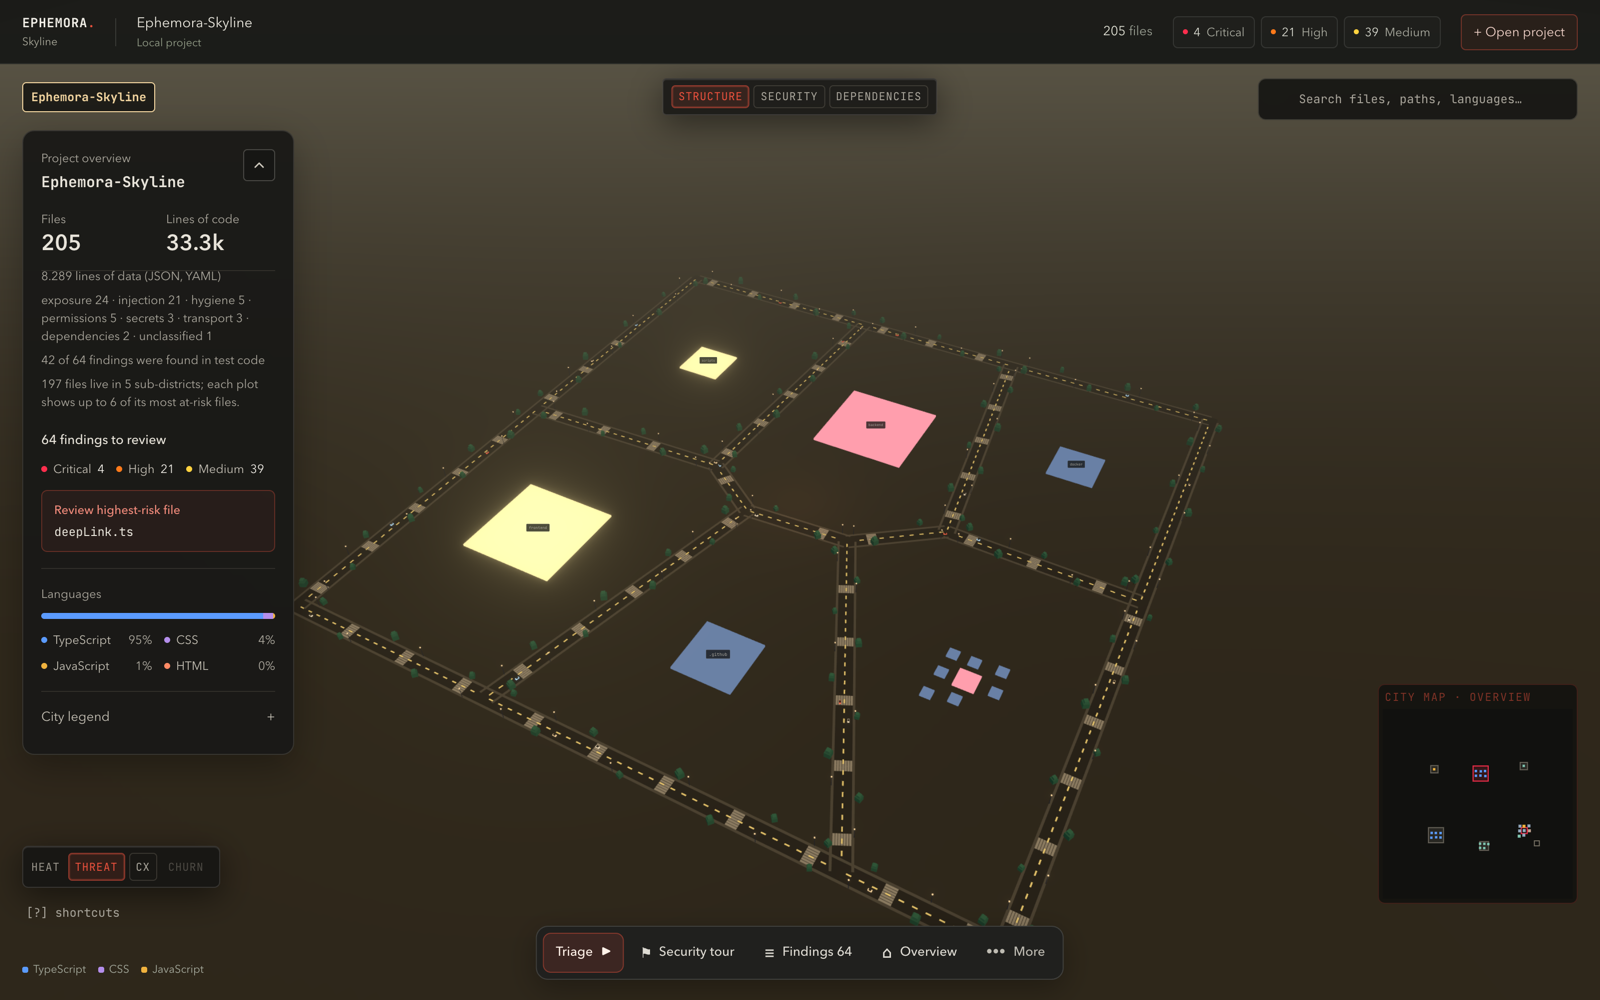
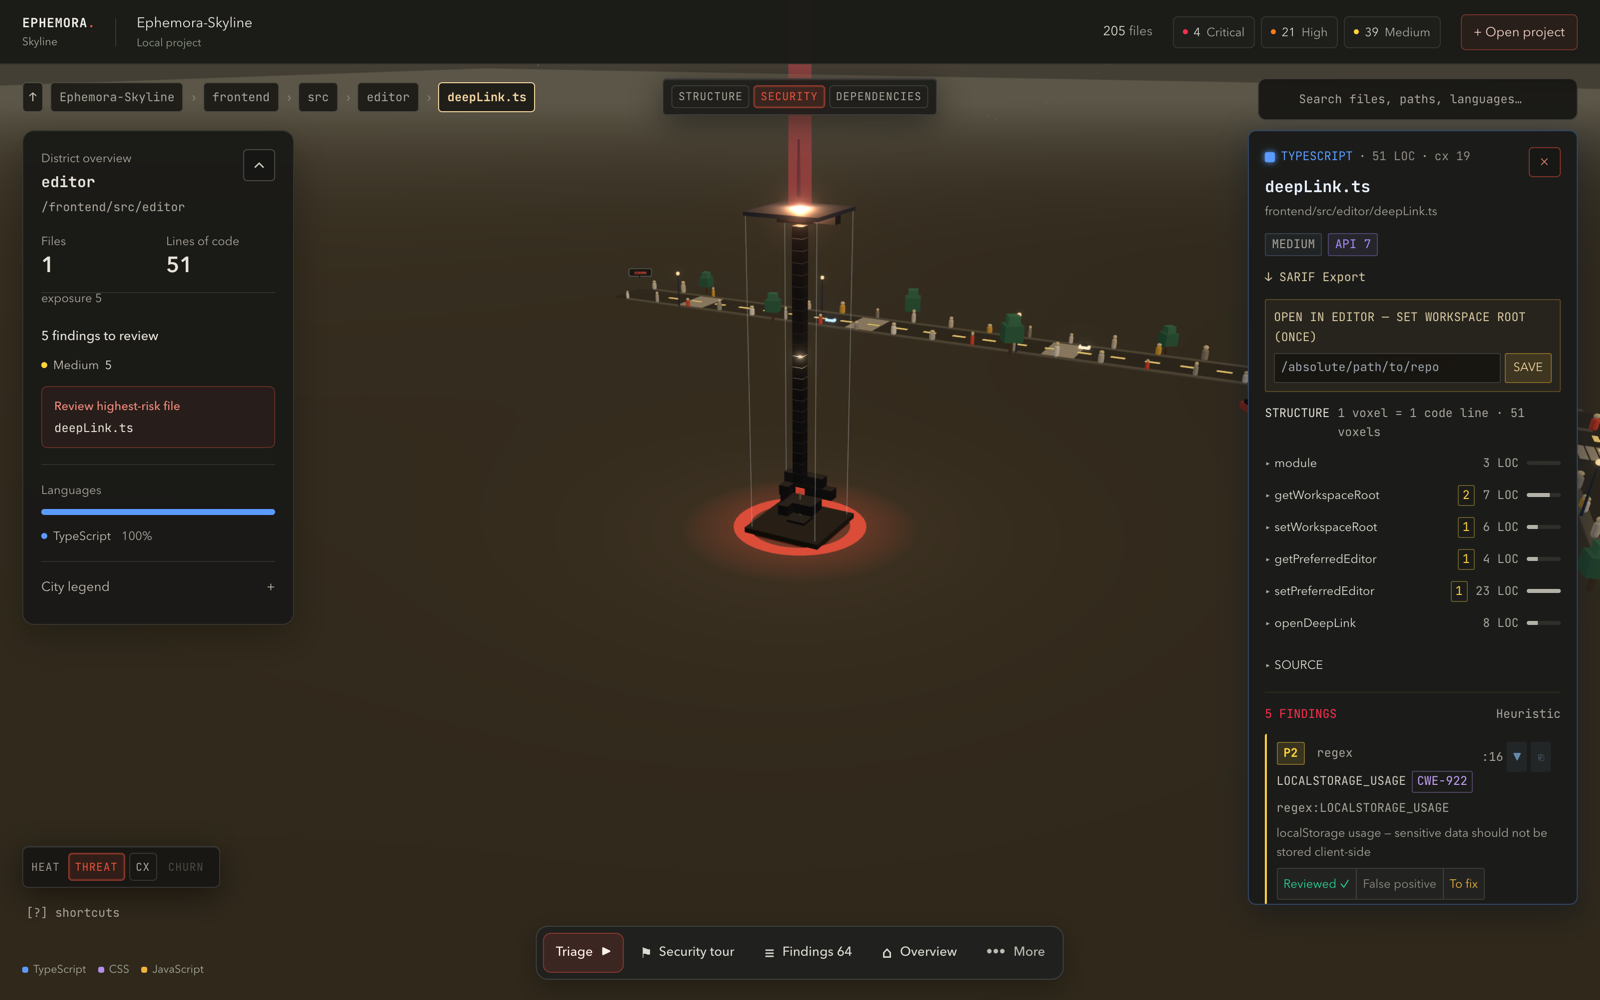
docs(readme): the gallery shows what its captions claim
ui-finding.png was the complexity heat channel with no finding on it, and
ui-security.png was the overview shot again: security mode dims non-alarm
buildings to 0.45, which measured 1.3 % of pixels and no reader can see. Both
are replaced with district-level shots of the real product, and the captions
describe what those pictures actually show. Test counts follow the new suite.

diff --git a/README.md b/README.md
@@ -53,7 +53,7 @@ Open **http://localhost:3010** and click **Choose project folder** — or **Expl
 ```bash
 npm run lint           # ESLint, zero warnings
 npm run type-check     # tsc --noEmit, both packages
-npm run test           # Vitest — 671 tests in 77 files (355 frontend, 316 backend)
+npm run test           # Vitest — 675 tests in 78 files (359 frontend, 316 backend)
 npm run build          # production build, both packages
 node scripts/audit-gate.mjs   # dependency audit, see below
 ```
@@ -117,15 +117,15 @@ A pack is a directory with a `pack.json` manifest and rule YAML beside it. The m
 
 ## The look
 
-| Entry                                                                                                          | Security mode                                   |
-| -------------------------------------------------------------------------------------------------------------- | ----------------------------------------------- |
-| ![Entry screen: profile choice and the folder action, with an annotated sample district](docs/assets/hero.png) | ![Security mode](docs/assets/ui-security.png)   |
-| What the tool is, in one screen, before it has anything of yours.                                              | The city dims so the beacons carry the picture. |
+| Entry                                                                                                          | One district, security mode                                      |
+| -------------------------------------------------------------------------------------------------------------- | ---------------------------------------------------------------- |
+| ![Entry screen: profile choice and the folder action, with an annotated sample district](docs/assets/hero.png) | ![A district in security mode](docs/assets/ui-security.png)      |
+| What the tool is, in one screen, before it has anything of yours.                                              | One directory in: the towers that hold findings carry the beams. |
 
-| A finding you can check                                                                  | On a phone                                                  |
-| ---------------------------------------------------------------------------------------- | ----------------------------------------------------------- |
-| ![A finding with its file, line, code frame and explanation](docs/assets/ui-finding.png) | ![The same city on a phone](docs/assets/ui-mobile.png)      |
-| File, line, the surrounding code, why it matters, and which rule fired.                  | Panels stay inside the viewport; the city stays explorable. |
+| A building and its file card                                                         | On a phone                                                  |
+| ------------------------------------------------------------------------------------ | ----------------------------------------------------------- |
+| ![A selected file with its findings](docs/assets/ui-finding.png)                     | ![The same city on a phone](docs/assets/ui-mobile.png)      |
+| Size, complexity, every section, and each finding with the line and rule that fired. | Panels stay inside the viewport; the city stays explorable. |
 
 The interface speaks English and German; the switch is in the header and the choice is remembered.
 

diff --git a/docs/UI_REVIEW.md b/docs/UI_REVIEW.md
@@ -16,7 +16,7 @@ The app was started locally at http://localhost:3010 with its backend on port 40
 
 - `npm run lint`: passed.
 - `npm run type-check`: passed.
-- `npm run test`: 671 passed (355 frontend, 316 backend) in 77 files. DOM interaction tests cover search and workspace controls.
+- `npm run test`: 675 passed (359 frontend, 316 backend) in 78 files. DOM interaction tests cover search and workspace controls.
 - `npm run build`: passed.
 - `git diff --check`: passed.
 - Browser checks: desktop 1440 × 900, mobile 390 × 844, narrow landing 320 × 740; no horizontal document overflow observed.

diff --git a/CONTRIBUTING.md b/CONTRIBUTING.md
@@ -27,7 +27,7 @@ These are exactly what CI enforces. Run them clean first:
 ```bash
 npm run lint          # ESLint, zero warnings
 npm run type-check    # tsc --noEmit across both packages
-npm run test          # Vitest — 671 tests in 77 files (355 frontend, 316 backend)
+npm run test          # Vitest — 675 tests in 78 files (359 frontend, 316 backend)
 npm run build         # production build, both packages
 ```
 
